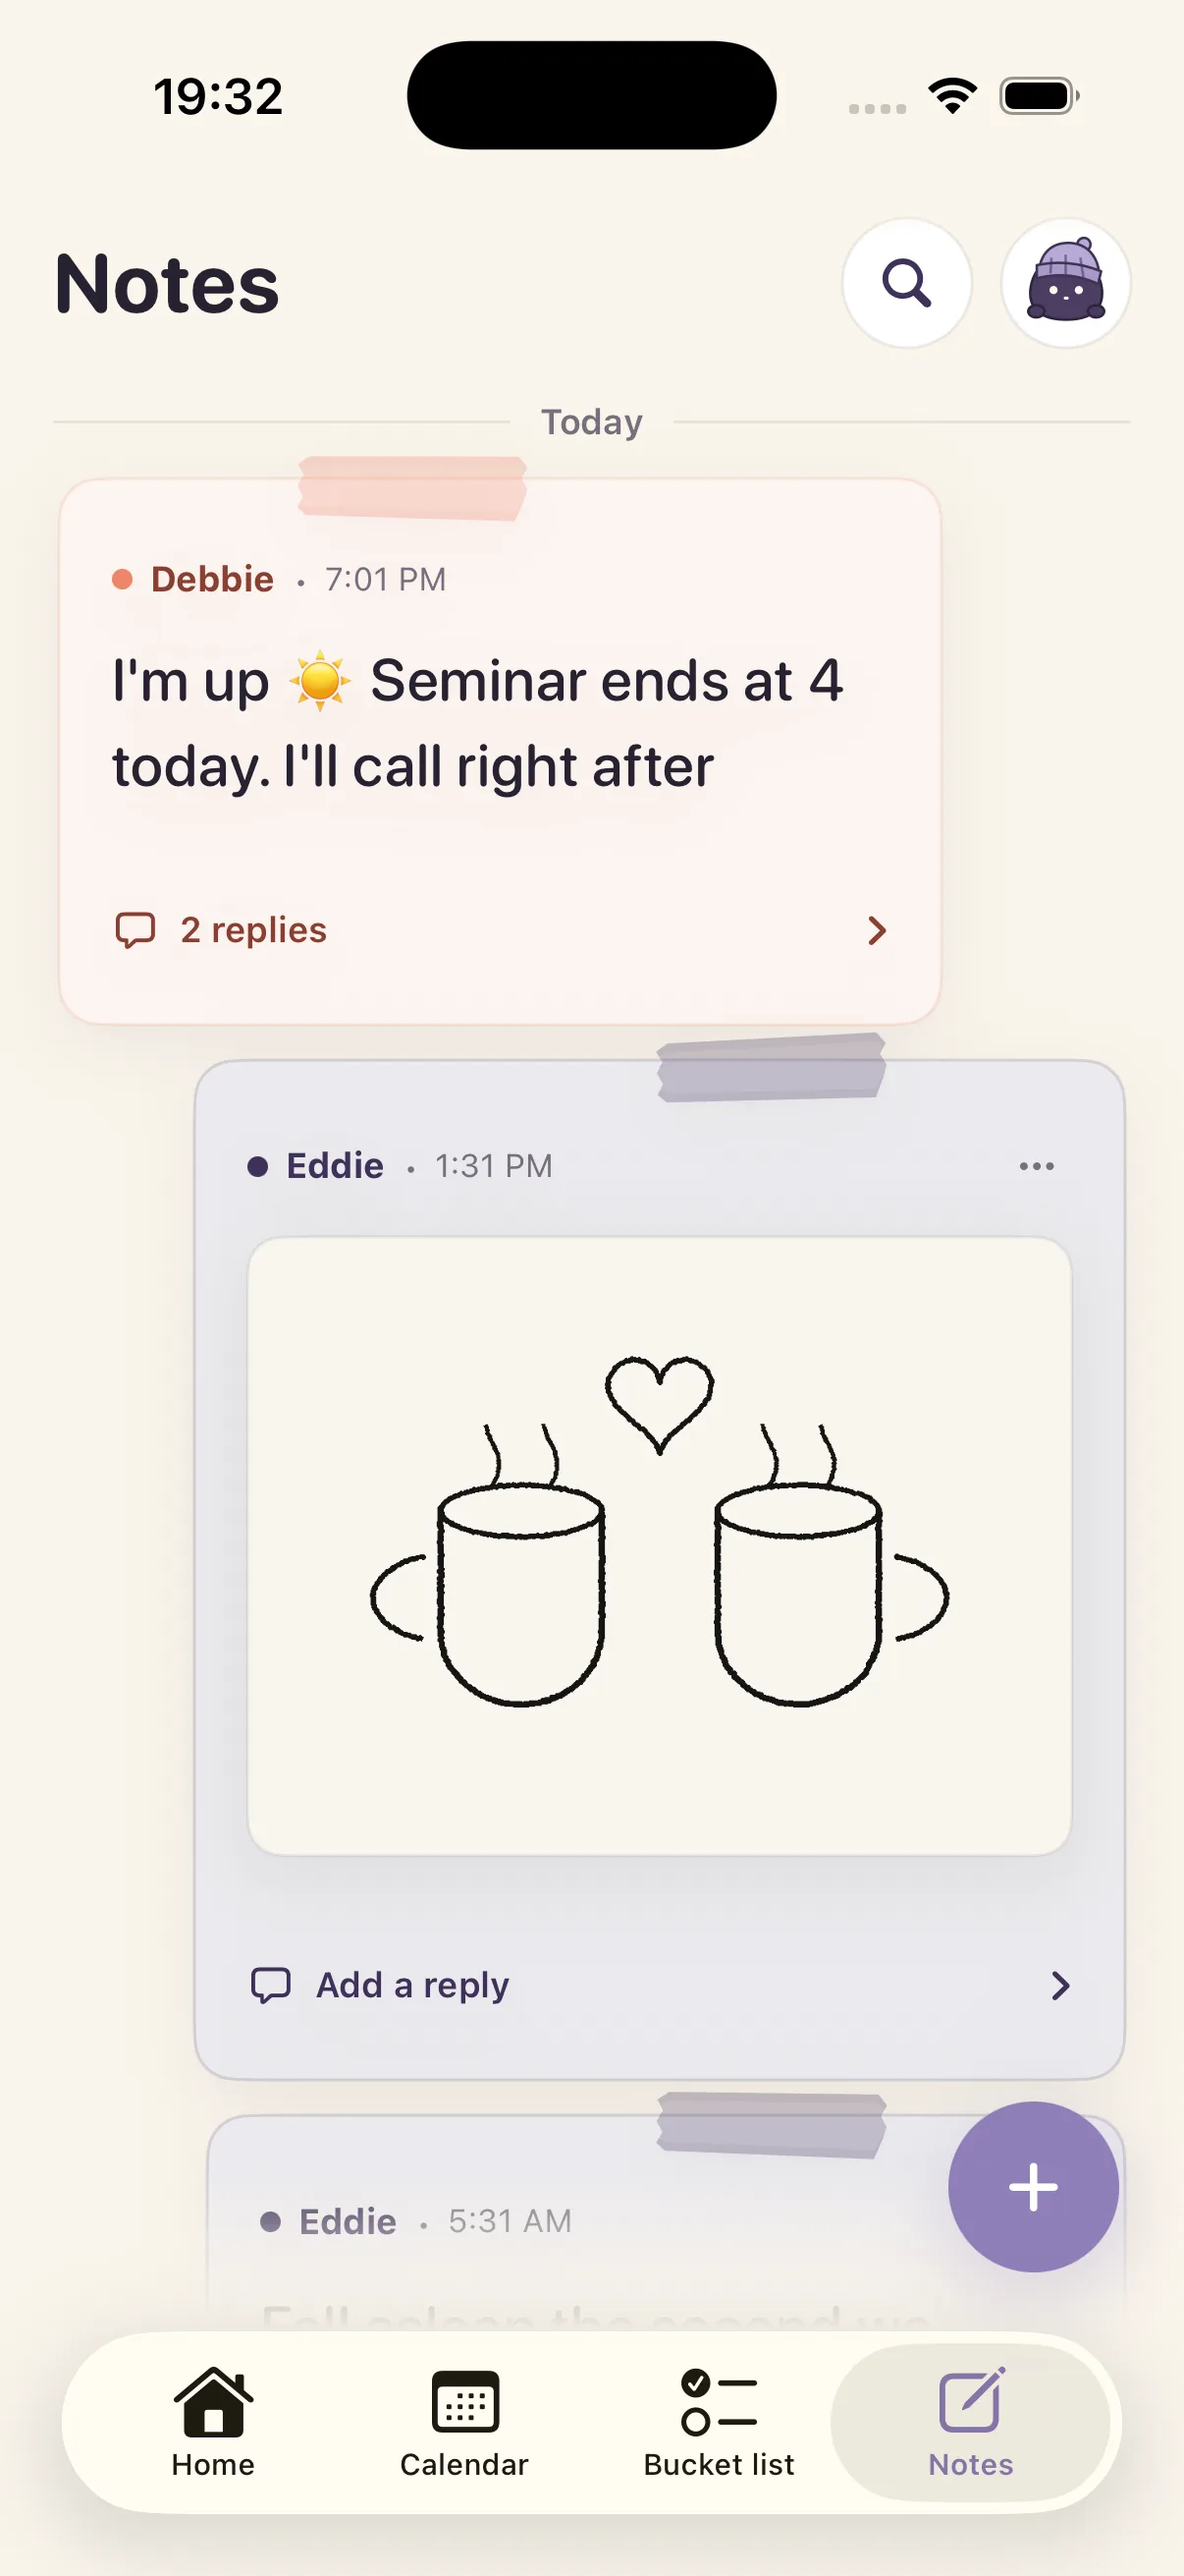
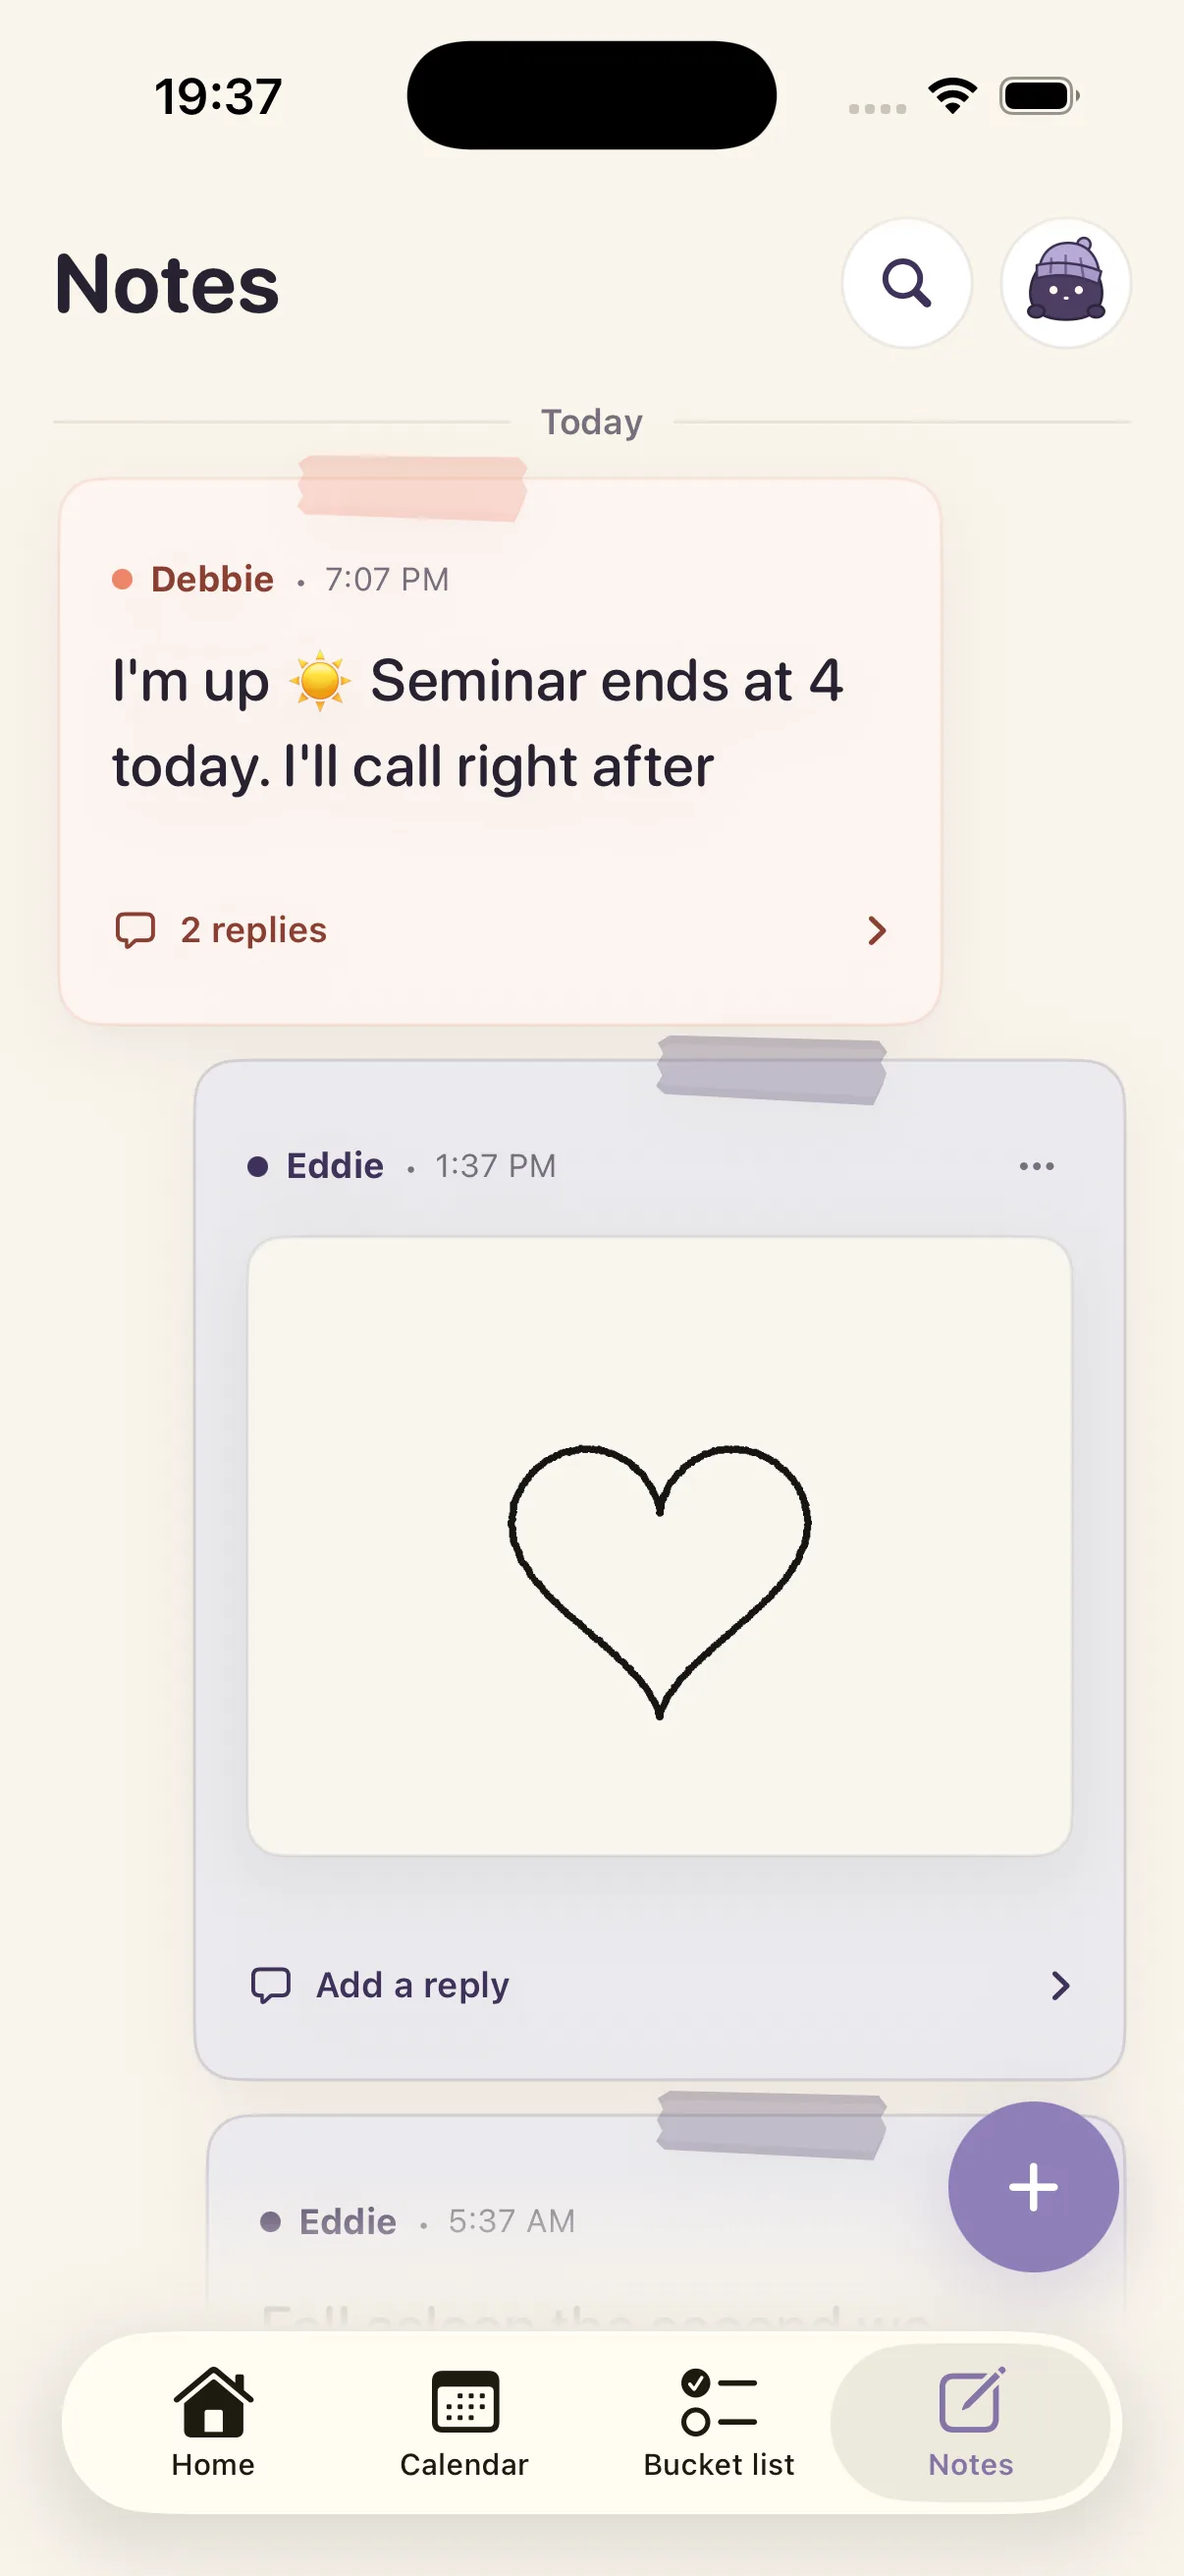
chore(screens): 쪽지 스크린샷을 하트 손그림 버전으로 교체한다(ko·en·ja)

diff --git a/ja/index.html b/ja/index.html
@@ -283,7 +283,7 @@
           <p>「会議が終わったら10分だけ通話?」「家に着いたら教えて」のように、返事を急かさないメモを残します。</p>
         </div>
         <figure class="device device-gallery">
-          <img src="../assets/screens/ja/notes.webp" alt="返信付きのテキストメモと、ハートを添えたマグカップふたつの手描きメモが並ぶ、Eddie と Debbie がおたがいに残した Naru メモの画面" width="1206" height="2622">
+          <img src="../assets/screens/ja/notes.webp" alt="返信付きのテキストメモと、手描きのハートのメモが並ぶ、Eddie と Debbie がおたがいに残した Naru メモの画面" width="1206" height="2622">
         </figure>
       </article>
     </section>

diff --git a/index.html b/index.html
@@ -283,7 +283,7 @@
           <p>“회의 끝나면 10분만 통화?”, “집 도착하면 알려줘”처럼 답을 재촉하지 않는 쪽지를 남겨요.</p>
         </div>
         <figure class="device device-gallery">
-          <img src="./assets/screens/notes.webp" alt="답글이 달린 텍스트 쪽지와 머그잔 두 개 위에 하트를 그린 손그림 쪽지가 나란히 놓인, Eddie와 Debbie가 서로 남긴 Naru 쪽지 화면" width="1206" height="2622">
+          <img src="./assets/screens/notes.webp" alt="답글이 달린 텍스트 쪽지와 손그림 하트 쪽지가 나란히 놓인, Eddie와 Debbie가 서로 남긴 Naru 쪽지 화면" width="1206" height="2622">
         </figure>
       </article>
     </section>

diff --git a/en/index.html b/en/index.html
@@ -283,7 +283,7 @@
           <p>Leave a note that doesn't demand a reply — “ten minutes after my meeting?”, “tell me when you're home”.</p>
         </div>
         <figure class="device device-gallery">
-          <img src="../assets/screens/en/notes.webp" alt="A text note with replies on top and a hand-drawn note of two mugs with a heart below — Naru notes that Eddie and Debbie left for each other" width="1206" height="2622">
+          <img src="../assets/screens/en/notes.webp" alt="A text note with replies on top and a hand-drawn heart note below — Naru notes that Eddie and Debbie left for each other" width="1206" height="2622">
         </figure>
       </article>
     </section>
